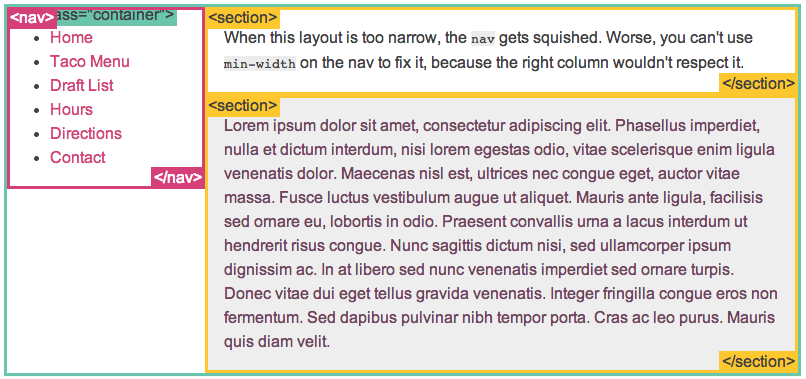
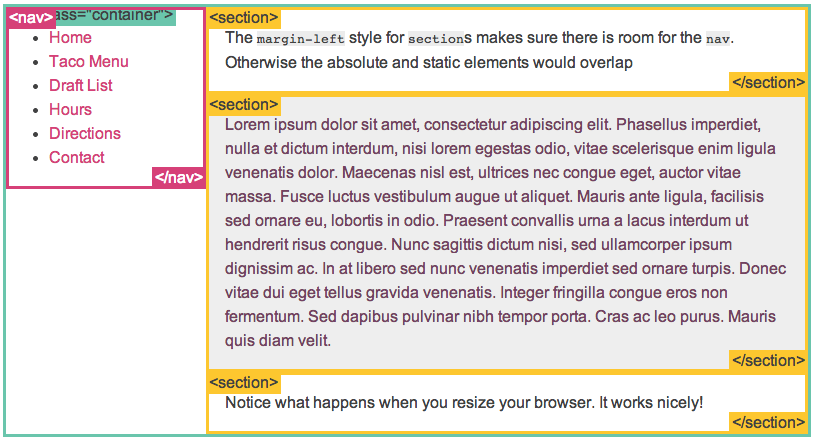
added more css examples

diff --git a/README.md b/README.md
@@ -5,10 +5,62 @@ Layout.js
 
 ## Problem
 
-Laying out UI should be intuitive. We have been drawing squares on paper ever since we were children. Consider this layout:
+Laying out UI should be intuitive. We have been drawing squares on paper ever since we were children. Why, then, is frontend web so tedious?
+
+We think the issue has to do with CSS.
+
+Consider this layout ([source](http://learnlayout.com/)):
 
 ![image](https://github.com/zhangela/layoutjs/blob/master/sample_layout.png?raw=true)
 
+**With CSS, here are the several ways you can make that layout:**
+
+### Relative Position
+
+```
+.container {
+  position: relative;
+}
+nav {
+  position: absolute;
+  left: 0px;
+  width: 200px;
+}
+section {
+  /* position is static by default */
+  margin-left: 200px;
+}
+footer {
+  position: fixed;
+  bottom: 0;
+  left: 0;
+  height: 70px;
+  background-color: white;
+  width: 100%;
+}
+body {
+  margin-bottom: 120px;
+}
+```
+
+This is terribly unintuitive. Why is .container positioned relatively and nav absolutely? Also, if the container is taller than the nav, then nav would overflow outside its container. 
+
+### Percent Width 
+
+```
+nav {
+  float: left;
+  width: 25%;
+}
+section {
+  margin-left: 25%;
+}
+```
+When the window is too narrow, the navbar will be so narrow that not all the text fit on the screen.
+
+![image](https://github.com/zhangela/layoutjs/blob/master/percent_width.png?raw=true)
+
+### 
 
 ## Requirements
 
